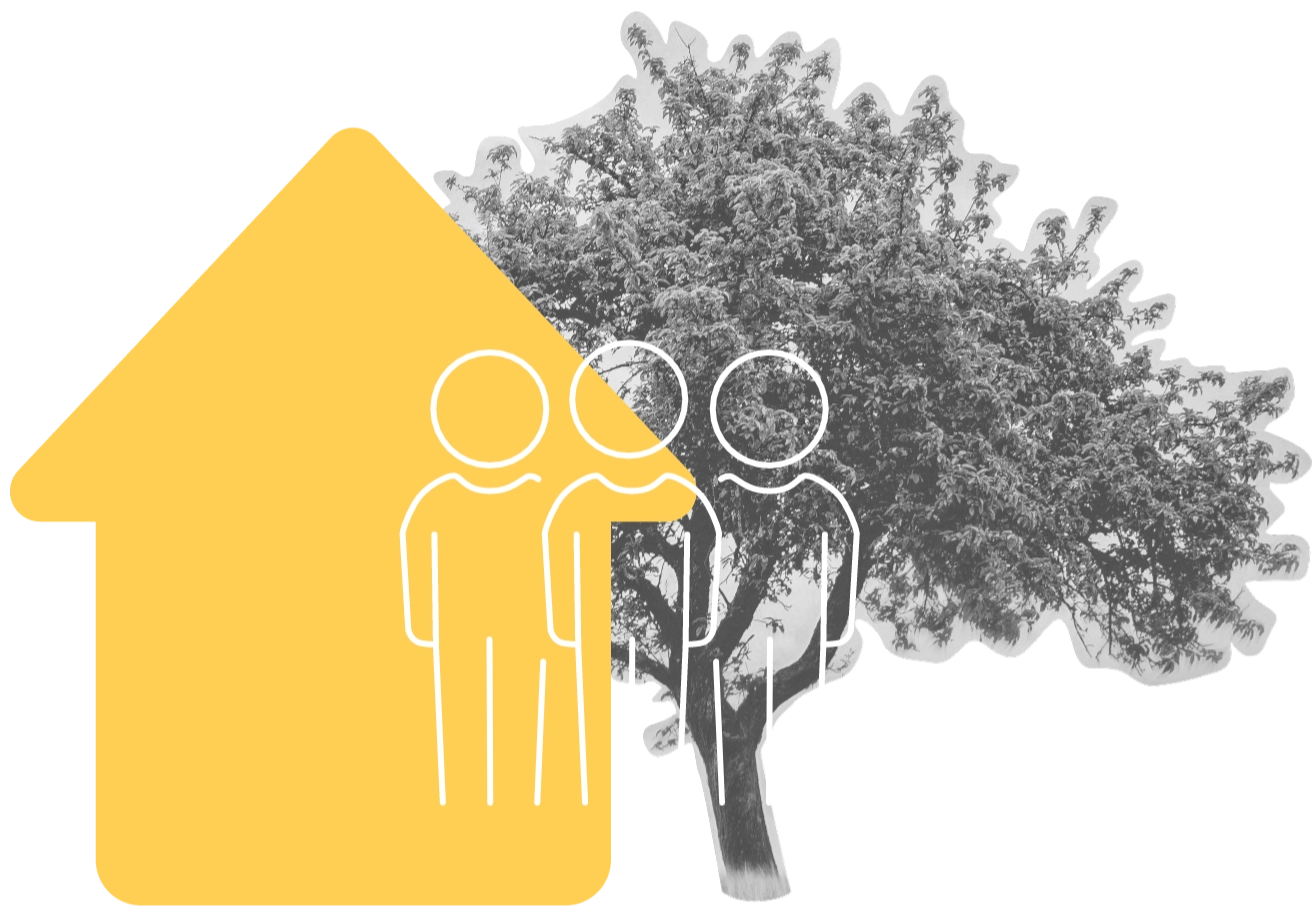
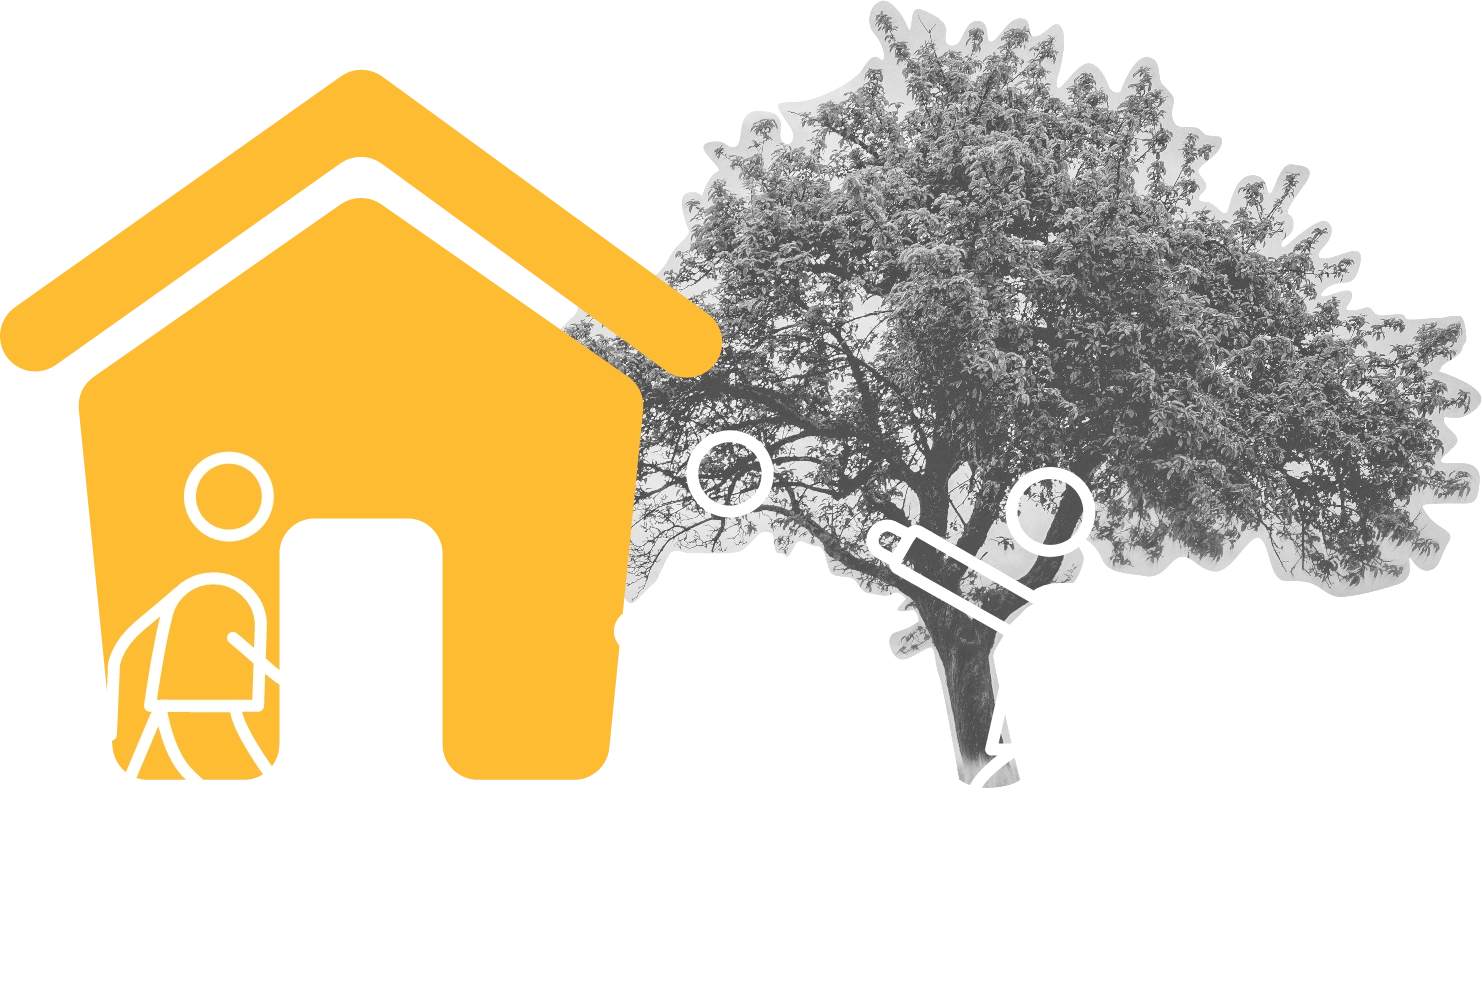
feat(assets): change imgs of the new design (#24)

diff --git a/src/components/common/icons/vectors/Envelop.icon.tsx b/src/components/common/icons/vectors/Envelop.icon.tsx
@@ -4,37 +4,18 @@ export const EnvelopIcon = (props: IconProps) => {
   return (
     <svg
       {...props}
-      width='48'
-      height='35'
-      viewBox='0 0 48 35'
+      width='52'
+      height='39'
+      viewBox='0 0 52 39'
       fill='none'
       xmlns='http://www.w3.org/2000/svg'
     >
-      <g clipPath='url(#clip0_28_34)'>
-        <path
-          fillRule='evenodd'
-          clipRule='evenodd'
-          d='M3.72072 2.28565C4.10876 2.10245 4.54242 2 5 2H42.562C43.0191 2 43.4524 2.10225 43.8401 2.28512L43.7578 2.38813C43.3199 2.93551 42.6871 3.7184 41.9097 4.65822C40.3541 6.53891 38.2232 9.04321 35.9169 11.5447C33.6063 14.0508 31.1398 16.5322 28.9112 18.3795C27.796 19.304 26.7633 20.0504 25.857 20.5609C24.9271 21.0847 24.2377 21.298 23.781 21.298C23.221 21.298 22.4597 21.0708 21.4996 20.5552C20.5553 20.0481 19.5013 19.3072 18.3785 18.3899C16.1337 16.5558 13.7037 14.0909 11.4489 11.599C9.19849 9.11214 7.14369 6.62204 5.65019 4.75175C4.90391 3.81719 4.29886 3.03875 3.88087 2.49461C3.82398 2.42054 3.77056 2.35083 3.72072 2.28565ZM2.29143 3.70856L2.2948 3.71295C2.71933 4.26562 3.33217 5.05406 4.08734 5.99975C5.59674 7.88995 7.67913 10.4139 9.96589 12.941C11.6715 14.8259 13.5027 16.7258 15.3033 18.3697C15.8108 18.833 16.3159 19.276 16.815 19.6925C16.9146 19.7756 17.014 19.8577 17.1131 19.9386C18.2916 20.9015 19.4554 21.7275 20.5534 22.3172C21.6356 22.8984 22.7413 23.298 23.781 23.298C24.757 23.298 25.8123 22.8816 26.8387 22.3034C27.8887 21.7119 29.0238 20.884 30.1876 19.9193C30.4956 19.664 30.8073 19.3977 31.1216 19.122C31.6101 18.6934 32.1051 18.2421 32.603 17.7736C34.2073 16.2642 35.8417 14.5768 37.3873 12.9003C39.7257 10.364 41.8812 7.83059 43.4509 5.93297C44.206 5.02001 44.8265 4.2531 45.2676 3.70238C45.4563 4.09508 45.562 4.5352 45.562 5V29.19C45.562 29.5782 45.4883 29.9492 45.354 30.2897C45.1011 30.9314 44.6333 31.4649 44.0393 31.8016C43.6032 32.0489 43.0991 32.19 42.562 32.19H5C4.59744 32.19 4.2134 32.1107 3.86264 31.9669C3.22405 31.7051 2.69579 31.2294 2.36695 30.6289C2.13301 30.2017 2 29.7114 2 29.19V5C2 4.53763 2.1046 4.0997 2.29143 3.70856ZM5 0C2.23858 0 0 2.23858 0 5V29.19C0 31.9514 2.23858 34.19 5 34.19H42.562C45.3234 34.19 47.562 31.9514 47.562 29.19V5C47.562 2.23858 45.3234 0 42.562 0H5ZM44.4364 1.53208C44.776 1.09656 45.4044 1.0188 45.8399 1.35841C46.2754 1.69802 46.3532 2.32639 46.0136 2.76192L45.225 2.147L44.4364 1.53208Z'
-          fill='currentColor'
-        />
-        <path
-          d='M45.8399 1.35841C45.4044 1.0188 44.776 1.09656 44.4364 1.53208L45.225 2.147L46.0136 2.76192C46.3532 2.32639 46.2754 1.69802 45.8399 1.35841Z'
-          fill='currentColor'
-        />
-        <path
-          d='M16.815 19.6925C16.3159 19.276 15.8108 18.833 15.3033 18.3697L2.36695 30.6289C2.69579 31.2294 3.22405 31.7051 3.86264 31.9669L16.815 19.6925Z'
-          fill='currentColor'
-        />
-        <path
-          d='M32.603 17.7736C32.1051 18.2421 31.6101 18.6934 31.1216 19.122L44.0393 31.8016C44.6333 31.4649 45.1011 30.9314 45.354 30.2897L32.603 17.7736Z'
-          fill='currentColor'
-        />
-      </g>
-      <defs>
-        <clipPath id='clip0_28_34'>
-          <rect width='47.562' height='34.189' fill='white' />
-        </clipPath>
-      </defs>
+      <path
+        fillRule='evenodd'
+        clipRule='evenodd'
+        d='M9.61089 6.06396C11.0448 7.84537 12.9104 10.0872 14.9318 12.3211C17.1593 14.7827 19.512 17.1632 21.6439 18.905C22.7111 19.7769 23.6552 20.4326 24.4459 20.8572C25.2655 21.2973 25.6822 21.3594 25.7752 21.3619C25.7709 21.3617 25.7744 21.3609 25.7863 21.3582C25.8542 21.3428 26.1948 21.2657 26.8754 20.8823C27.6378 20.4528 28.5682 19.7879 29.6348 18.9037C31.7626 17.1399 34.1594 14.7337 36.4465 12.253C38.478 10.0495 40.3757 7.83913 41.8565 6.06396H9.61089ZM7 0.0639648C3.13401 0.0639648 0 3.19797 0 7.06396V31.254C0 35.12 3.13401 38.254 7 38.254H44.562C48.428 38.254 51.562 35.12 51.562 31.254V7.06396C51.562 3.19797 48.428 0.0639648 44.562 0.0639648H7ZM10.4829 16.3469C8.83772 14.5288 7.29944 12.7155 6 11.1336V28.3899L14.3949 20.4345C13.0516 19.121 11.7274 17.7222 10.4829 16.3469ZM41.5423 32.254L33.0183 23.8871C31.9496 24.7468 30.8682 25.5196 29.8203 26.1099C28.6976 26.7423 27.2764 27.362 25.781 27.362C24.2616 27.362 22.8115 26.79 21.6071 26.1432C20.7189 25.6662 19.8196 25.0688 18.9313 24.4017L10.6453 32.254H41.5423ZM45.562 27.7921L37.4686 19.8479C38.6235 18.7016 39.7672 17.5028 40.8578 16.32C42.5778 14.4543 44.1976 12.5932 45.562 10.9809V27.7921Z'
+        fill='currentColor'
+      />
     </svg>
   );
 };

diff --git a/src/components/sections/home/Newsletter.tsx b/src/components/sections/home/Newsletter.tsx
@@ -37,10 +37,10 @@ export const Newsletter = ({ data }: Props) => {
   });
 
   return (
-    <section className='w-full bg-a-yellow-dark text-black xl:pt-4'>
+    <section className='w-full bg-a-yellow-dark text-black lg:py-4'>
       <Box className='max-w-[1920px]'>
-        <div className='tl py-fluid relative w-full flex items-center md:items-start lg:items-end flex-col lg:flex-row lg:gap-x-8'>
-          <div className='tl lg:w-fit md:max-w-[596px] lg:max-w-[700px] flex-grow text-center md:text-left flex-shrink-0'>
+        <div className='tl py-fluid relative w-full flex items-center md:items-start lg:items-end flex-col lg:flex-row'>
+          <div className='tl lg:w-fit text-center md:text-left flex-shrink-0'>
             <h3 className='leading-tight'>
               <ReactMarkdown>{data.title}</ReactMarkdown>
             </h3>
@@ -48,39 +48,41 @@ export const Newsletter = ({ data }: Props) => {
           </div>
 
           <div className='tl flex-grow flex items-center justify-center flex-col md:flex-row mt-8 lg:mt-0 w-full lg:w-auto'>
-            <form
-              className='tl relative z-[1] w-full flex items-center justify-between rounded-[6px] rounded-tr-[26px] rounded-br-[26px] bg-white text-black'
-              onSubmit={onSubmit}
-            >
-              <input
-                type='text'
-                className={clsxm(
-                  'tl h-[54px] w-full appearance-none border-none p-4 bg-white text-black text-[16px] md:text-[18px] lg:text-[20px] xl:text-[25px] rounded-[6px]',
-                  'focus:!border-white focus:ring-0 active:decoration-0 active:ring-0'
-                )}
-                placeholder={data.placeholder}
-                {...rules.email}
-              />
-              <Button
-                type='submit'
-                icon
-                className='dark:text-white dark:bg-black hover:dark:border-black hover:dark:bg-white hover:dark:text-black [&_svg]:!mr-3 md:[&_svg]:mr-5 [&_svg]:w-4 [&_svg]:h-4 md:[&_svg]:w-8 md:[&_svg]:h-8'
-                noAnim
+            <div className='w-full mr-auto lg:max-w-3xl desktop:max-w-4xl'>
+              <label
+                htmlFor='newsletter-input'
+                className='block text-body1 mb-2 font-secondary leading-none'
               >
-                {data.button.label}
-              </Button>
-            </form>
-            <div className='tl absolute top-0 bottom-0 -right-[40vw] md:-right-[45vw] hidden md:block lg:right-[inherit]'>
+                {data.placeholder}
+              </label>
+              <form
+                className='tl relative z-[1] w-full flex items-center justify-between rounded-[6px] rounded-tr-[26px] rounded-br-[26px] bg-white text-black'
+                onSubmit={onSubmit}
+              >
+                <input
+                  id='newsletter-input'
+                  type='text'
+                  className={clsxm(
+                    'tl h-[54px] w-full appearance-none border-none p-4 bg-white text-black text-[16px] md:text-[18px] lg:text-[20px] xl:text-[25px] rounded-[6px]',
+                    'focus:!border-white focus:ring-0 active:decoration-0 active:ring-0'
+                  )}
+                  {...rules.email}
+                />
+                <Button
+                  type='submit'
+                  icon
+                  className='dark:text-white dark:bg-black hover:dark:border-black hover:dark:bg-white hover:dark:text-black [&_svg]:!mr-3 md:[&_svg]:mr-5 [&_svg]:w-4 [&_svg]:h-4 md:[&_svg]:w-8 md:[&_svg]:h-8'
+                  noAnim
+                >
+                  {data.button.label}
+                </Button>
+              </form>
+            </div>
+            <div className='tl absolute top-0 bottom-0 right-0 hidden md:block max-w-[320px] lg:max-w-[395px]'>
               <img
-                src='/imgs/home/newsletter-bg.webp'
+                src='/imgs/home/newsletter-home.webp'
                 alt='background newsletter'
-                className='h-full w-auto object-contain bottom-0 object-bottom'
-              />
-
-              <img
-                src='/imgs/home/newsletter-icon.webp'
-                alt='newsletter icon'
-                className='tl absolute hidden lg:block md:w-28 xl:w-36 2xl:w-40 z-[1] top-10 md:top-7 2xl:top-10 -left-[58px] md:-left-[38px] xl:-left-[62px] 2xl:-left-[86px]'
+                className='h-full w-auto object-contain'
               />
             </div>
           </div>

diff --git a/tailwind.config.js b/tailwind.config.js
@@ -98,6 +98,9 @@ module.exports = {
     './src/app/**/*.{js,ts,jsx,tsx,mdx}',
     './src/components/**/*.{js,ts,jsx,tsx,mdx}',
   ],
+  future: {
+    hoverOnlyWhenSupported: true,
+  },
   theme: {
     extend: {
       fontFamily: {
